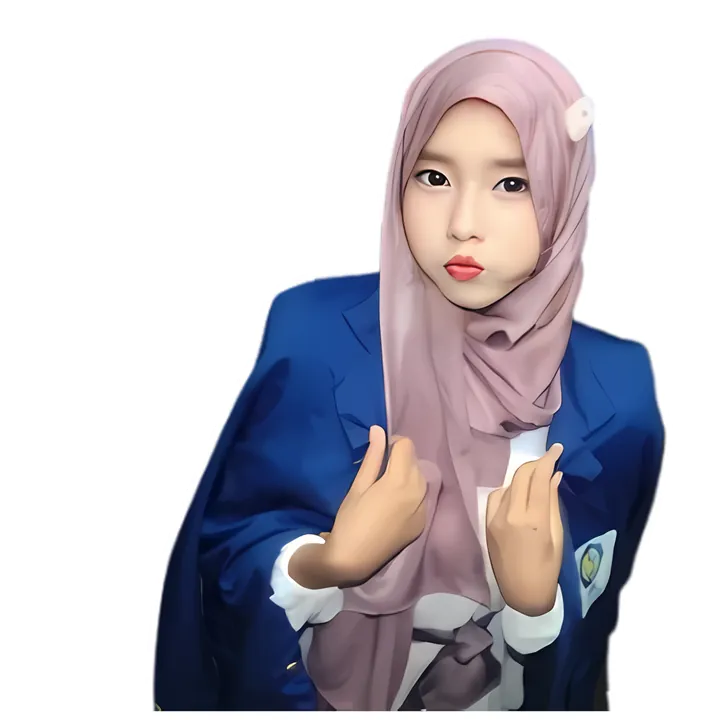
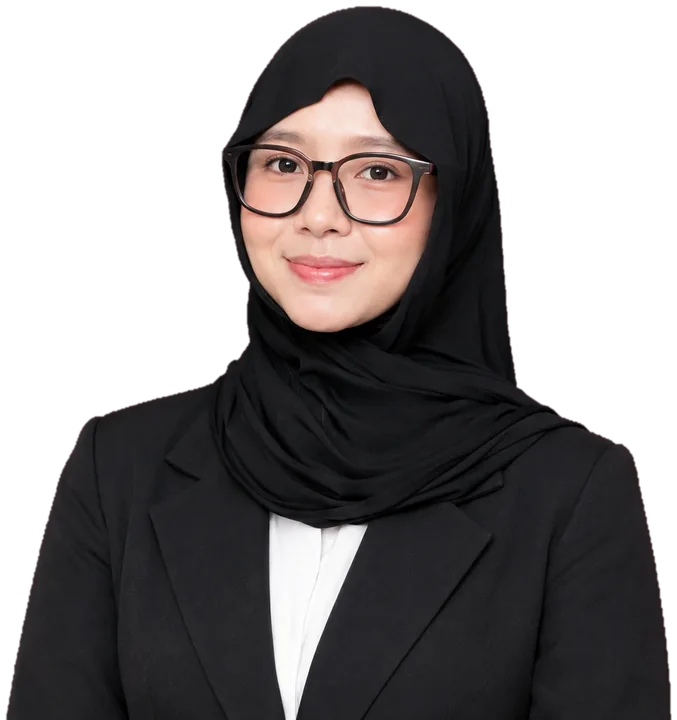
Use new portrait with background removed
Replaces the hero cut-out and Open Graph image; resizes the portrait so the head is not cropped.

diff --git a/assets/site.css b/assets/site.css
@@ -230,7 +230,7 @@ section { padding: 6.5rem 0; }
 .portrait-ring { position: absolute; z-index: 0; width: 230px; height: 230px; right: 18px; top: 22px; border-radius: 50%; border: 1px dashed rgba(255,255,255,0.35); animation: spin 40s linear infinite; }
 .portrait-ring::after { content: ''; position: absolute; top: 14px; left: 30px; width: 10px; height: 10px; border-radius: 50%; background: var(--accent-2); box-shadow: 0 0 12px var(--accent-2); }
 @keyframes spin { to { transform: rotate(360deg); } }
-.portrait-photo { position: absolute; z-index: 1; right: -6px; bottom: 0; height: 112%; width: auto; max-width: none; filter: drop-shadow(0 12px 28px rgba(0,0,0,0.35)); pointer-events: none; }
+.portrait-photo { position: absolute; z-index: 1; right: 0; bottom: 0; height: 94%; width: auto; max-width: none; filter: drop-shadow(0 12px 28px rgba(0,0,0,0.35)); pointer-events: none; }
 .portrait-body { position: relative; z-index: 2; padding: 1.4rem 1.5rem; max-width: 58%; display: flex; flex-direction: column; justify-content: flex-end; }
 .portrait-hi { font-family: var(--font-mono); font-size: 0.72rem; color: var(--text-2); margin-bottom: 0.4rem; }
 .portrait-name { font-family: var(--font-display); font-weight: 800; font-size: 1.45rem; letter-spacing: -0.02em; line-height: 1.1; }

diff --git a/index.html b/index.html
@@ -133,7 +133,7 @@
           <div class="glass-card portrait span-2 reveal d2" data-tilt>
             <div class="portrait-scene" aria-hidden="true"></div>
             <div class="portrait-ring" aria-hidden="true"></div>
-            <img class="portrait-photo" src="assets/img/nadine-cutout-thumb.webp" width="717" height="720" alt="Nadine Azzadiena Farahdiansyah" fetchpriority="high">
+            <img class="portrait-photo" src="assets/img/nadine-cutout-thumb.webp" width="677" height="720" alt="Nadine Azzadiena Farahdiansyah" fetchpriority="high">
             <div class="portrait-body">
               <div class="portrait-hi" data-en="// hello, I'm" data-id="// halo, saya">// hello, I'm</div>
               <div class="portrait-name">Nadine</div>
